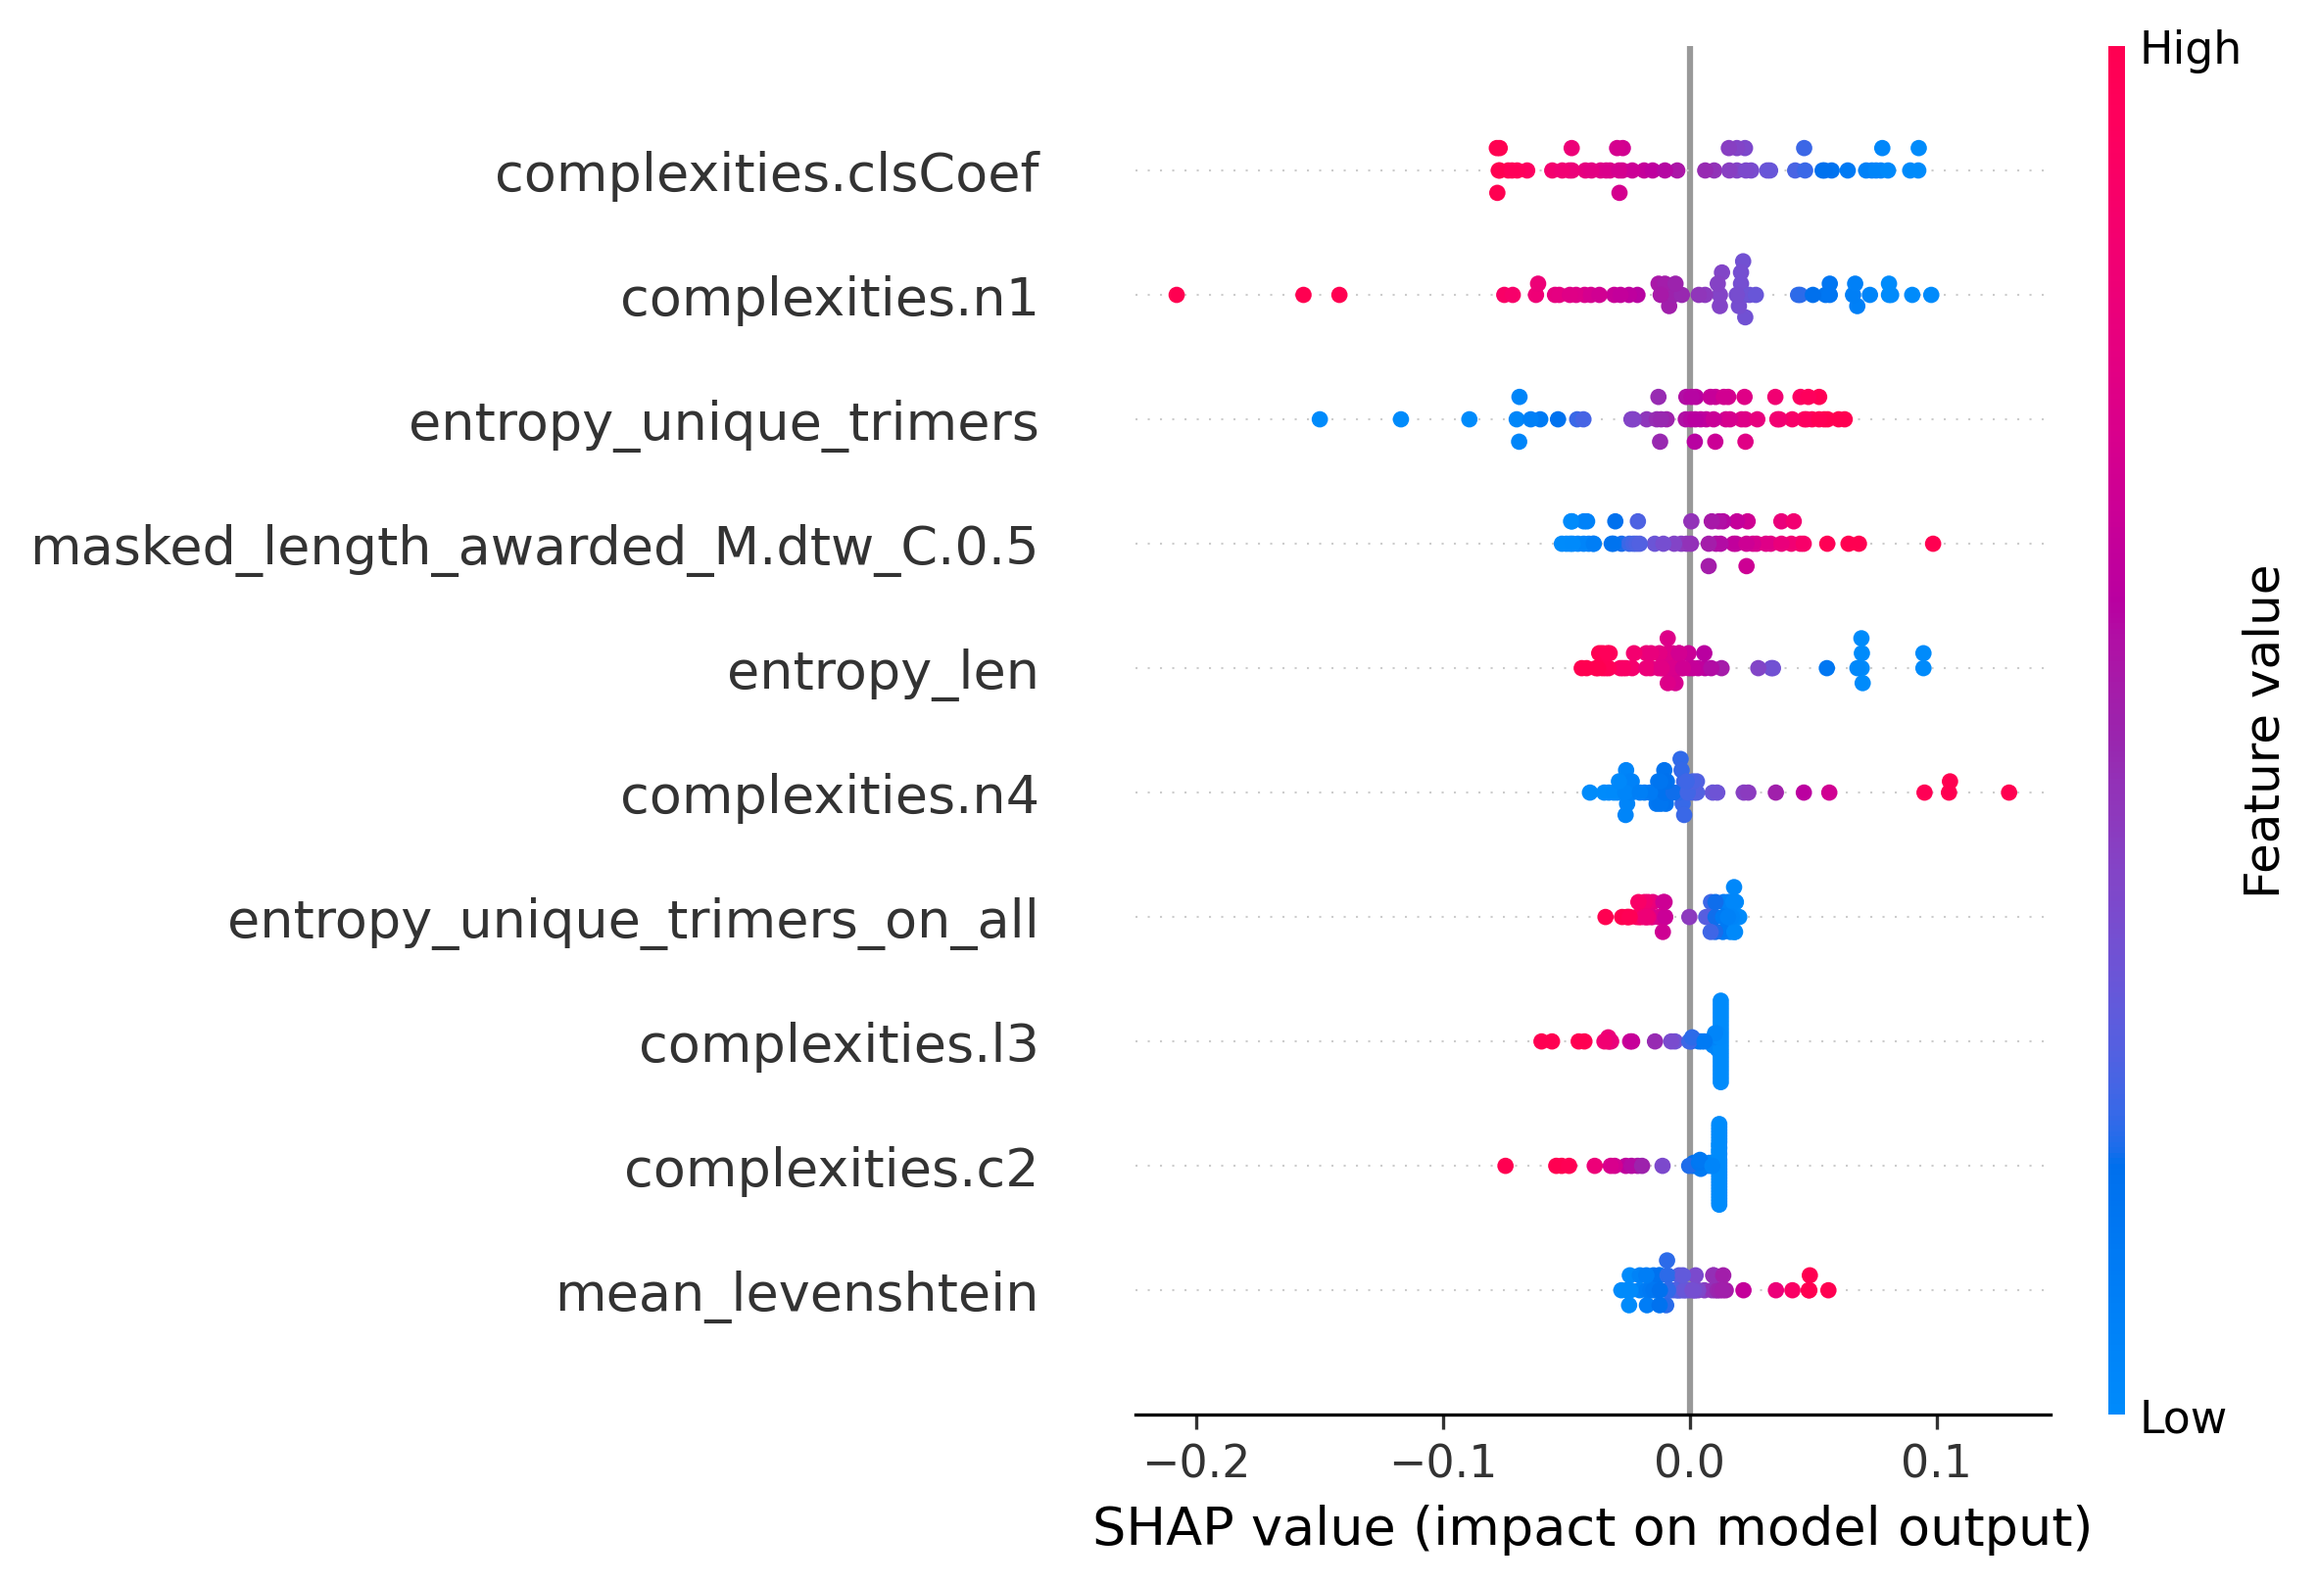
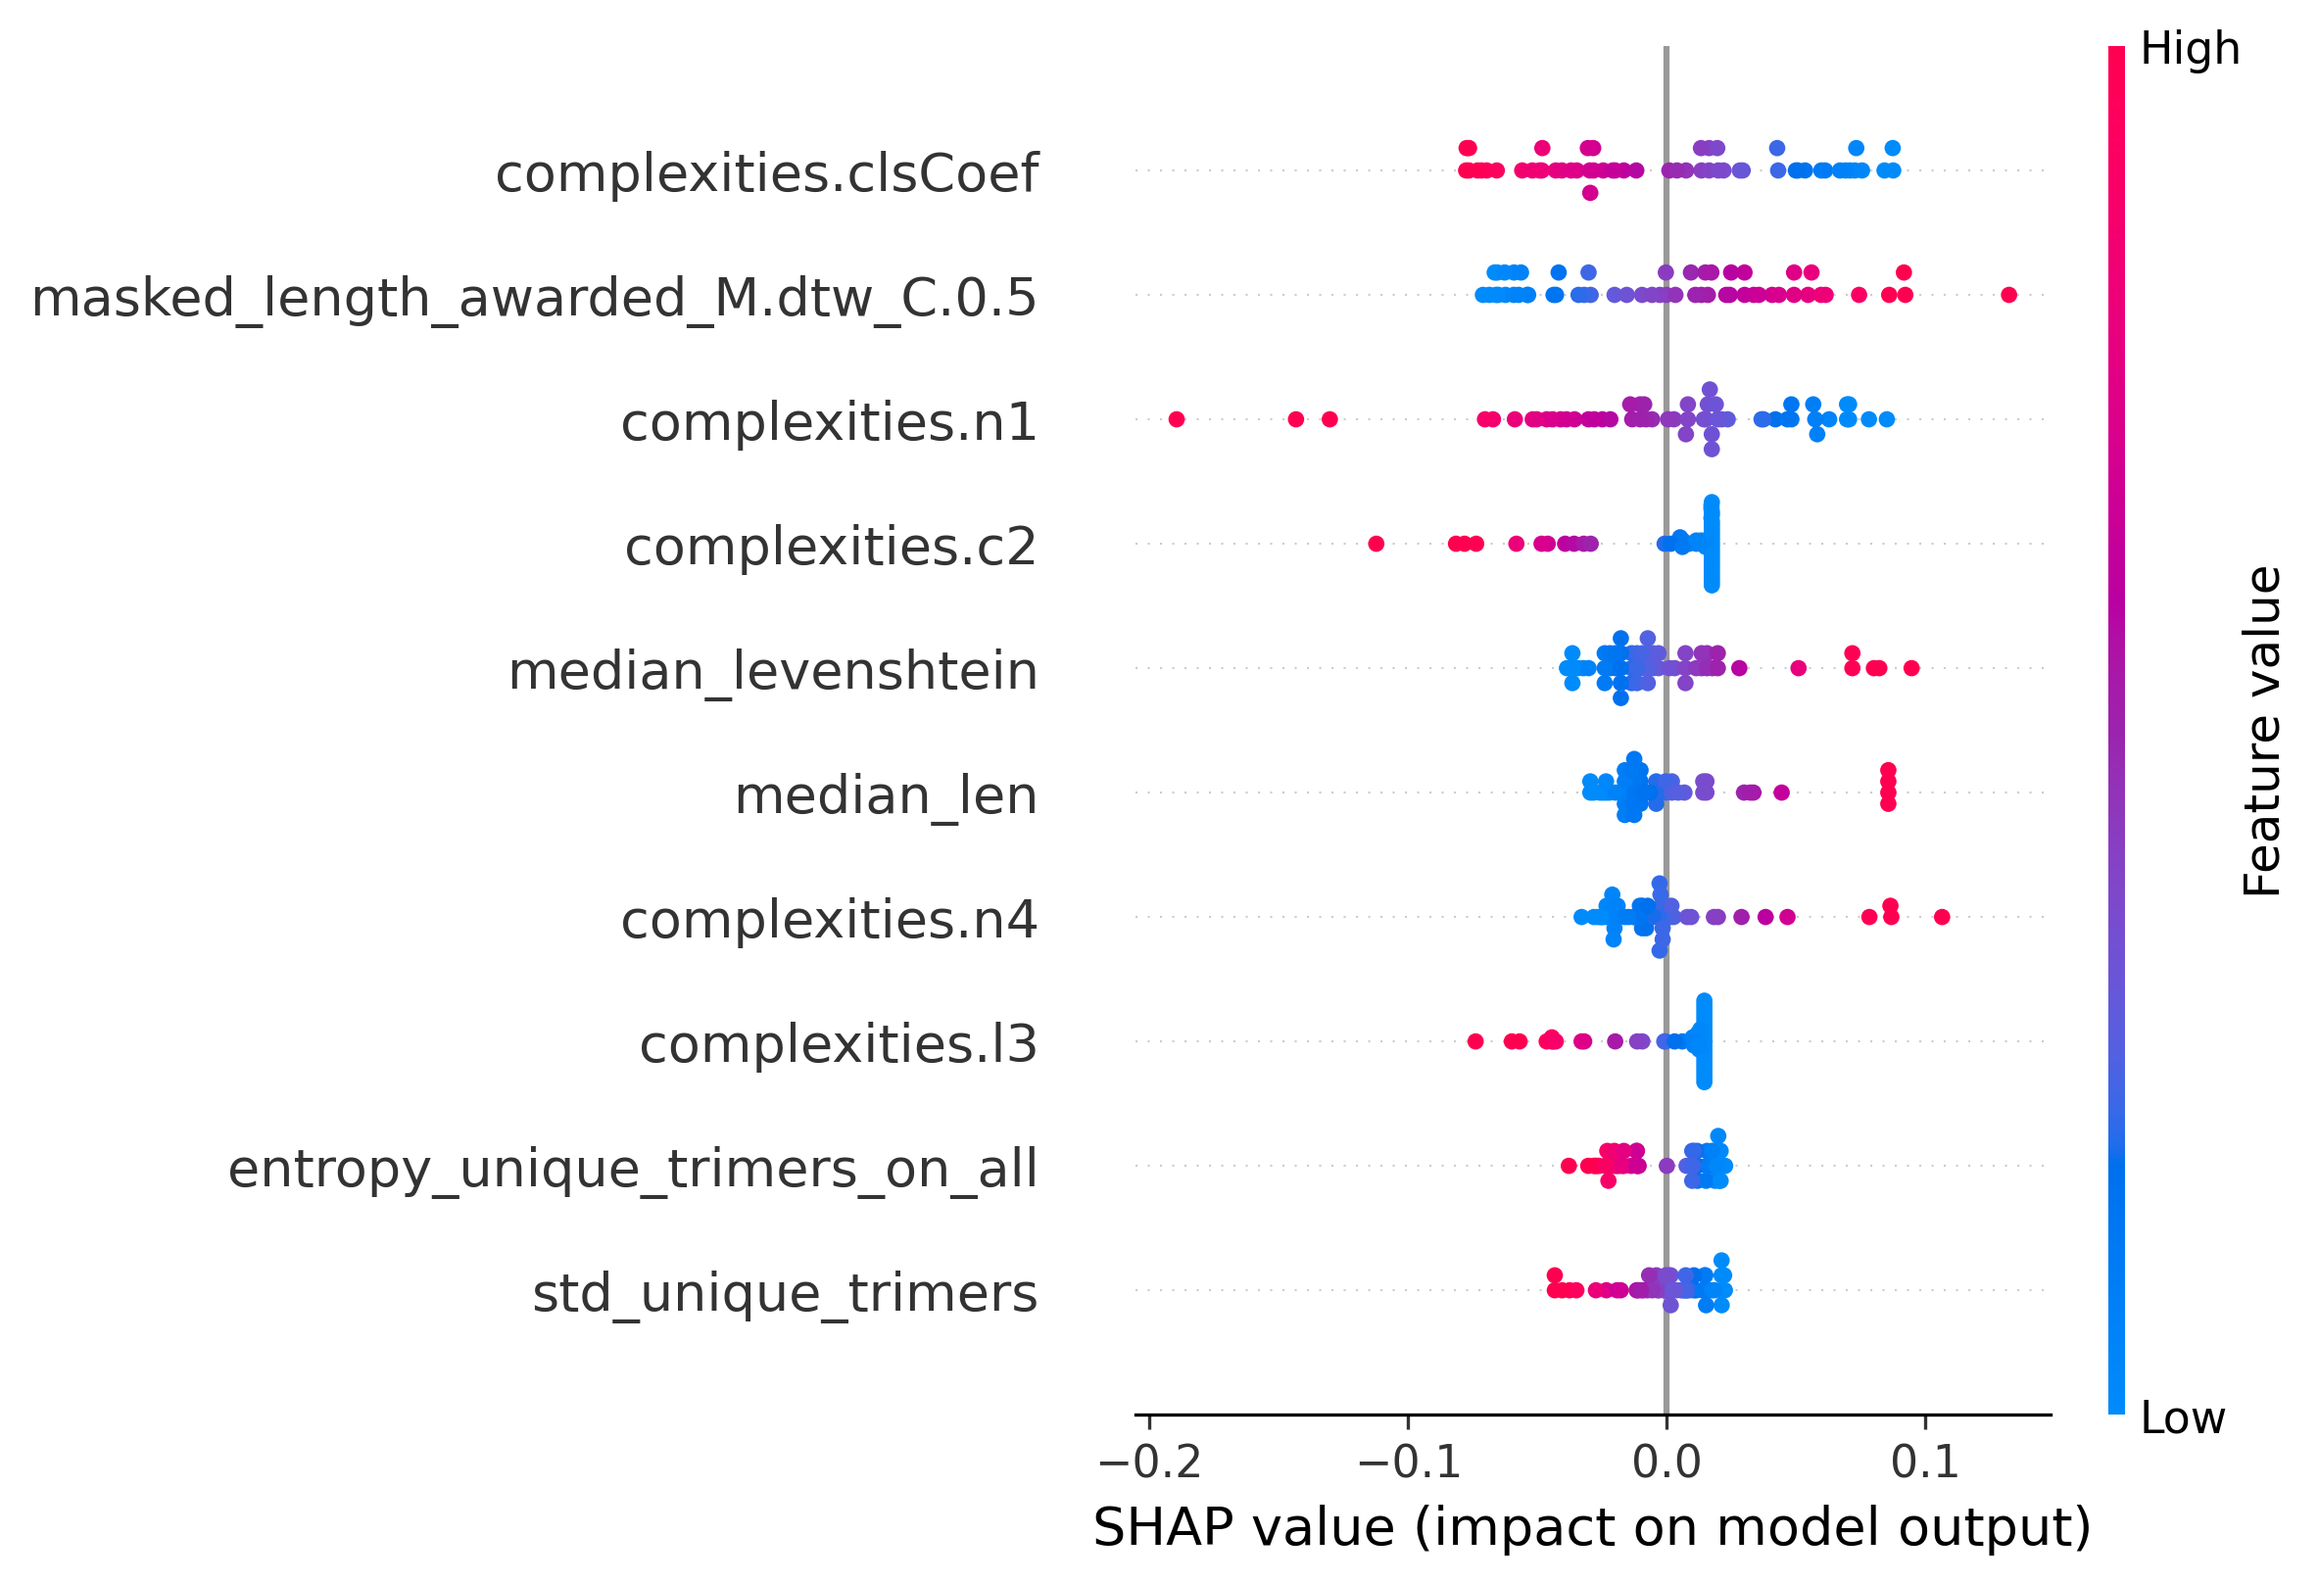
add fuwg

diff --git a/experiment/final_algorithm/learn_ridge.py b/experiment/final_algorithm/learn_ridge.py
@@ -12,7 +12,7 @@ models_aggregated_path = "../models/results/models_aggregated_mean.csv"
 features_problexity_path = "../dc_problexity/results/problexity_significant.csv"
 features_sd_path = "../dc_sequence_diversity/results/sequence_diversity_significant.csv"
 features_fgw_path = "../ot_computation/results/fgw_small_for_model.csv"
-# features_fugw_path = "../ot_computation/results/fgw_small_for_model.csv"
+features_fugw_path = "../ot_computation/results/fugw_69_for_analysis.csv"
 
 models_aggregated_df = pd.read_csv(models_aggregated_path, index_col='name')
 target_column = models_aggregated_df.columns
@@ -21,14 +21,16 @@ features_problexity_df = pd.read_csv(features_problexity_path, index_col='name')
 features_problexity_df.sort_index(ascending=False, inplace=True)
 features_sd_df = pd.read_csv(features_sd_path, index_col='name')
 features_fgw_df = pd.read_csv(features_fgw_path, index_col='name')
+features_fugw_df = pd.read_csv(features_fugw_path, index_col='name')['masked_length_awarded_M.dtw_C.0.5.100']
 
-full_features = pd.concat([features_problexity_df, features_sd_df, features_fgw_df], axis=1)
+full_features = pd.concat([features_problexity_df, features_sd_df, features_fgw_df, features_fugw_df], axis=1)
 full_df = pd.concat([full_features, models_aggregated_df], axis=1)
+full_df.drop('antibacterial', inplace=True)
 
 targets = full_df[target_column]
 features = full_df.drop(target_column, axis=1)
 
-target_type = 'f1_mean'
+target_type = 'auc_roc_mean'
 X = features
 y = targets[target_type]
 pipeline_fs = Pipeline([

diff --git a/experiment/final_algorithm/search.py b/experiment/final_algorithm/search.py
@@ -7,7 +7,7 @@ models_aggregated_path = "../models/results/models_aggregated_mean.csv"
 features_problexity_path = "../dc_problexity/results/problexity_significant.csv"
 features_sd_path = "../dc_sequence_diversity/results/sequence_diversity_significant.csv"
 features_fgw_path = "../ot_computation/results/fgw_small_for_model.csv"
-# features_fugw_path = "../ot_computation/results/fgw_small_for_model.csv"
+features_fugw_path = "../ot_computation/results/fugw_69_for_analysis.csv"
 
 models_aggregated_df = pd.read_csv(models_aggregated_path, index_col='name')
 target_column = models_aggregated_df.columns
@@ -16,9 +16,11 @@ features_problexity_df = pd.read_csv(features_problexity_path, index_col='name')
 features_problexity_df.sort_index(ascending=False, inplace=True)
 features_sd_df = pd.read_csv(features_sd_path, index_col='name')
 features_fgw_df = pd.read_csv(features_fgw_path, index_col='name')
+features_fugw_df = pd.read_csv(features_fugw_path, index_col='name')['masked_length_awarded_M.dtw_C.0.5.100']
 
-full_features = pd.concat([features_problexity_df, features_sd_df, features_fgw_df], axis=1)
+full_features = pd.concat([features_problexity_df, features_sd_df, features_fgw_df, features_fugw_df], axis=1)
 full_df = pd.concat([full_features, models_aggregated_df], axis=1)
+full_df.drop('antibacterial', inplace=True)
 
 targets = full_df[target_column]
 features = full_df.drop(target_column, axis=1)

diff --git a/experiment/ot_computation/correlations/select_non_correlated.py b/experiment/ot_computation/correlations/select_non_correlated.py
@@ -4,7 +4,7 @@ import yaml
 from experiment.analysis_utils.correlations import select_non_correlated_features_with_greedy
 
 models_path = "../../models/results/models_aggregated_mean.csv"
-features_path = "../results/fgw_small_for_model.csv"
+features_path = "../results/fugw_69_for_analysis.csv"
 
 targets = pd.read_csv(models_path, index_col='name')
 features = pd.read_csv(features_path, index_col='name')

diff --git a/experiment/final_algorithm/shap_fi.py b/experiment/final_algorithm/shap_fi.py
@@ -3,7 +3,7 @@ import numpy as np
 import shap
 import matplotlib.pyplot as plt
 
-target_type = 'f1_mean'
+target_type = 'auc_roc_mean'
 
 
 ridge = joblib.load(f'ridge/{target_type}/model.joblib')
